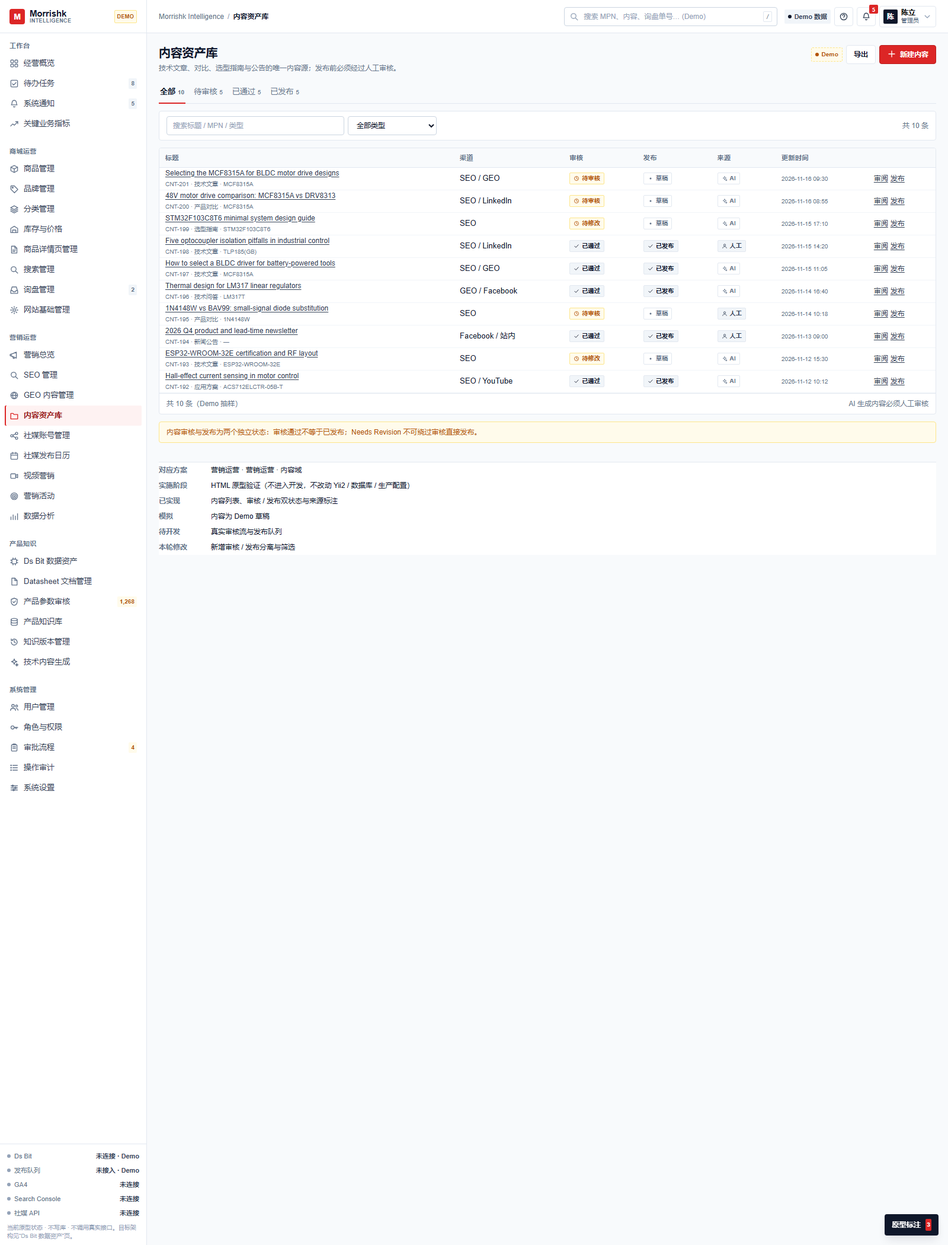
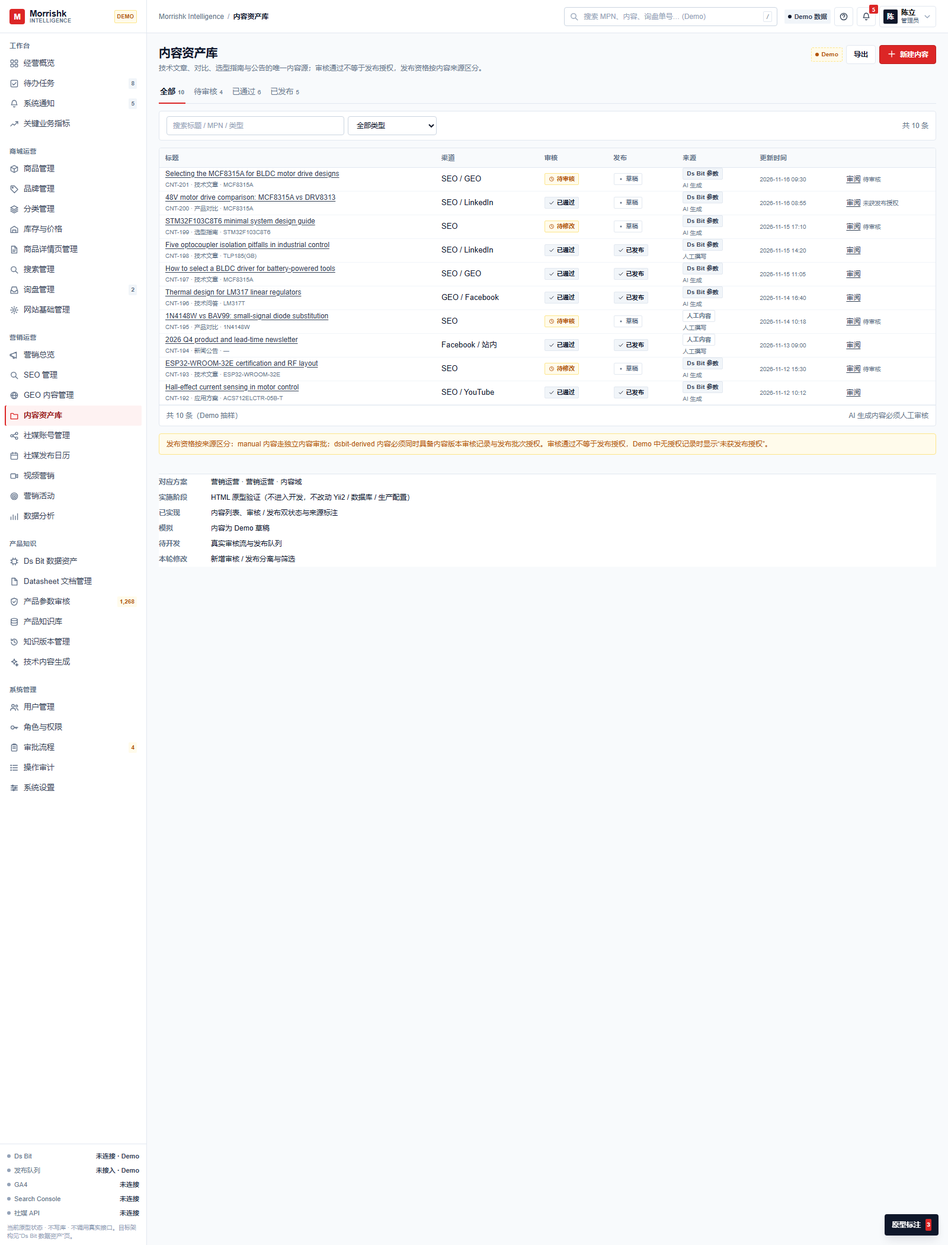
fix(prototype): 明确内容资产库发布授权边界
- 内容增加 manual / dsbit 来源与发布授权记录
- dsbit 内容需内容版本审核记录 + 发布批次授权才可发布，否则显示未获发布授权
- 人工内容走独立审批并记录审批号，不套用商品详情三层闸门
- 内容抽屉展示发布资格与依据，列表按资格显示发布入口
- 重拍 07 截图并新增 27 发布拦截截图

diff --git a/07_prototypes/admin/assets/admin.js b/07_prototypes/admin/assets/admin.js
@@ -308,30 +308,61 @@
     });
   }
 
+  function contentRelease(c) {
+    var rel = c.release || null;
+    if (c.origin === 'manual') {
+      var manualOk = !!rel && rel.mode === 'manual';
+      return {
+        ok: manualOk,
+        qual: manualOk ? '人工内容独立审批通过' : '未到发布环节',
+        basis: manualOk
+          ? '人工撰写内容不引用 Ds Bit 参数，走独立内容审批：' + rel.ref + '（' + rel.batch + '）'
+          : '人工撰写内容需先通过独立内容审核；不套用商品详情三层闸门。'
+      };
+    }
+    var dsbitOk = !!rel && rel.mode === 'dsbit';
+    return {
+      ok: dsbitOk,
+      qual: dsbitOk ? '已获发布授权 · 批次 ' + rel.batch : '未获发布授权',
+      basis: dsbitOk
+        ? '内容版本 ' + rel.version + ' 已通过内容审核，发布批次 ' + rel.batch + '（' + rel.ref + '）；授权仅限该批次。'
+        : '内容引用 Ds Bit 参数，必须有内容版本审核记录与发布批次授权；Demo 中无授权记录，因此不能发布。'
+    };
+  }
+
   function contentDrawer(id) {
     var c = find(STATE.contents, 'id', id);
     if (!c) return;
+    var rel = contentRelease(c);
     var body = UI.kv([
       { k: '内容 ID', v: esc(c.id), mono: true },
       { k: '类型', v: esc(c.type) },
       { k: '关联商品', v: esc(c.mpn) },
       { k: '渠道', v: esc(c.channel) },
+      { k: '内容来源', v: c.origin === 'manual' ? 'manual · 人工撰写（独立审批）' : 'dsbit-derived · 引用 Ds Bit 参数' },
       { k: '事实来源', v: esc(c.source) },
       { k: '生成方式', v: c.ai === 'AI Generated' ? 'AI 生成（Demo）' : '人工撰写' },
       { k: '审核状态', v: UI.pill(c.review, { Approved: '已通过', 'Pending Review': '待审核', 'Needs Revision': '待修改' }[c.review] || c.review) },
-      { k: '发布状态', v: UI.pill(c.publish, c.publish === 'Published' ? '已发布' : '草稿') }
+      { k: '发布状态', v: UI.pill(c.publish, c.publish === 'Published' ? '已发布' : '草稿') },
+      { k: '发布资格', v: rel.qual },
+      { k: '发布依据', v: rel.basis }
     ]) +
       '<div class="evidence"><h4>引用边界</h4><blockquote>' + esc(c.source) + '</blockquote>' +
       '<div class="meta-row"><span>仅引用 Ds Bit Verified 参数</span><span>AI 内容必须人工审核</span></div></div>' +
-      '<div class="note' + (c.review === 'Approved' ? '' : ' warn') + '">' +
-      (c.review === 'Approved' ? '已通过审核，可执行发布动作（Demo）。' : '未通过审核，发布按钮不可用；请先审核通过。') + '</div>';
+      '<div class="note' + (c.review === 'Approved' && rel.ok ? '' : ' warn') + '">' +
+      (c.review !== 'Approved'
+        ? '未通过审核，发布按钮不可用；请先审核通过。'
+        : (rel.ok ? '审核与发布资格均满足，可执行发布动作（Demo）。' : '审核已通过，但' + (c.origin === 'dsbit' ? '缺少发布批次授权' : '缺少独立审批记录') + '，发布不可执行。')) + '</div>';
 
     var foot = '';
     if (c.review !== 'Approved') {
       foot += '<button class="btn btn-secondary" type="button" data-act="content-return" data-id="' + esc(c.id) + '">退回修改</button>' +
-        '<button class="btn btn-primary" type="button" data-act="content-approve" data-id="' + esc(c.id) + '">审核通过</button>';
+        '<button class="btn btn-primary" type="button" data-act="content-approve" data-id="' + esc(c.id) + '">' +
+        (c.origin === 'manual' ? '人工审核通过' : '审核通过') + '</button>';
     } else if (c.publish !== 'Published') {
-      foot += '<button class="btn btn-primary" type="button" data-act="content-publish" data-id="' + esc(c.id) + '">发布</button>';
+      foot += rel.ok
+        ? '<button class="btn btn-primary" type="button" data-act="content-publish" data-id="' + esc(c.id) + '">发布</button>'
+        : '<button class="btn btn-secondary" type="button" disabled aria-disabled="true">未获发布授权</button>';
     }
     UI.openDrawer({
       kicker: '内容资产 · Demo', title: c.title, sub: esc(c.id + ' · ' + c.mpn), body: body, foot: drawerFoot(foot)
@@ -1142,7 +1173,7 @@
       var id = 'CNT-' + (202 + STATE.contents.length);
       STATE.contents.unshift({
         id: id, title: p.mpn + ' 关键参数与选型边界（GEO 草稿）', type: '应用方案', mpn: mpn,
-        source: 'Ds Bit 已审核参数', ai: 'AI Generated', review: 'Pending Review', publish: 'Draft',
+        origin: 'dsbit', source: 'Ds Bit 已审核参数', ai: 'AI Generated', review: 'Pending Review', publish: 'Draft', release: null,
         updated: nowStr(), channel: 'SEO / GEO'
       });
       UI.closeAll(); rerender();
@@ -1156,8 +1187,8 @@
       if (!title) { UI.toast('请填写标题', 'err'); return; }
       var id = 'CNT-' + (202 + STATE.contents.length);
       STATE.contents.unshift({
-        id: id, title: title, type: val('ncType'), mpn: val('ncMpn'), source: '人工撰写',
-        ai: 'Human', review: 'Pending Review', publish: 'Draft', updated: nowStr(), channel: val('ncChannel')
+        id: id, title: title, type: val('ncType'), mpn: val('ncMpn'), origin: 'manual', source: '人工撰写',
+        ai: 'Human', review: 'Pending Review', publish: 'Draft', release: null, updated: nowStr(), channel: val('ncChannel')
       });
       UI.closeModal(); rerender();
       UI.toast('已创建内容草稿 ' + id + '（待审核）', 'warn');
@@ -1166,8 +1197,14 @@
       var c = find(STATE.contents, 'id', el.getAttribute('data-id'));
       c.review = 'Approved';
       audit('审核内容', c.id + ' / ' + c.title, 'Approved');
-      UI.closeAll(); rerender();
-      UI.toast('内容已通过审核（Demo），可执行发布');
+      if (c.origin === 'manual') {
+        c.release = { mode: 'manual', ref: 'MA-' + c.id, batch: '人工内容审批', version: 'v1' };
+        UI.closeAll(); rerender();
+        UI.toast('人工内容审核通过（独立审批）：' + c.release.ref + '，可发布');
+      } else {
+        UI.closeAll(); rerender();
+        UI.toast('内容审核通过（Demo）：未获发布批次授权时仍不可发布', 'warn');
+      }
     },
     'content-return': function (el) {
       var c = find(STATE.contents, 'id', el.getAttribute('data-id'));
@@ -1180,6 +1217,13 @@
       var c = find(STATE.contents, 'id', el.getAttribute('data-id'));
       if (!c) return;
       if (c.review !== 'Approved') { UI.toast('未通过审核，不能发布', 'err'); return; }
+      var rel = contentRelease(c);
+      if (!rel.ok) {
+        UI.toast(c.origin === 'dsbit'
+          ? '该内容引用 Ds Bit 参数，未获发布批次授权，不能发布'
+          : '人工内容缺少独立审批记录，不能发布', 'err');
+        return;
+      }
       c.publish = 'Published';
       c.updated = nowStr();
       audit('发布内容', c.id + ' / ' + c.title, 'Success');

diff --git a/07_prototypes/admin/assets/data.js b/07_prototypes/admin/assets/data.js
@@ -172,17 +172,18 @@
 
 
   /* ------------------------------------------------------------------ 内容 */
+  /* origin: manual = 人工内容独立审批；dsbit = 引用 Ds Bit 参数，必须有内容版本审核记录 + 发布批次授权（release）才能发布 */
   D.contents = [
-    { id: 'CNT-201', title: 'Selecting the MCF8315A for BLDC motor drive designs', type: '技术文章', mpn: 'MCF8315A', source: 'Ds Bit 已审核参数', ai: 'AI Generated', review: 'Pending Review', publish: 'Draft', updated: '2026-11-16 09:30', channel: 'SEO / GEO' },
-    { id: 'CNT-200', title: '48V motor drive comparison: MCF8315A vs DRV8313', type: '产品对比', mpn: 'MCF8315A', source: 'Ds Bit 已审核参数', ai: 'AI Generated', review: 'Pending Review', publish: 'Draft', updated: '2026-11-16 08:55', channel: 'SEO / LinkedIn' },
-    { id: 'CNT-199', title: 'STM32F103C8T6 minimal system design guide', type: '选型指南', mpn: 'STM32F103C8T6', source: 'Ds Bit 参数（含待审核）', ai: 'AI Generated', review: 'Needs Revision', publish: 'Draft', updated: '2026-11-15 17:10', channel: 'SEO' },
-    { id: 'CNT-198', title: 'Five optocoupler isolation pitfalls in industrial control', type: '技术文章', mpn: 'TLP185(GB)', source: '人工撰写 + Ds Bit 引用', ai: 'Human', review: 'Approved', publish: 'Published', updated: '2026-11-15 14:20', channel: 'SEO / LinkedIn' },
-    { id: 'CNT-197', title: 'How to select a BLDC driver for battery-powered tools', type: '技术文章', mpn: 'MCF8315A', source: 'Ds Bit 已审核参数', ai: 'AI Generated', review: 'Approved', publish: 'Published', updated: '2026-11-15 11:05', channel: 'SEO / GEO' },
-    { id: 'CNT-196', title: 'Thermal design for LM317 linear regulators', type: '技术问答', mpn: 'LM317T', source: 'Ds Bit 已审核参数', ai: 'AI Generated', review: 'Approved', publish: 'Published', updated: '2026-11-14 16:40', channel: 'GEO / Facebook' },
-    { id: 'CNT-195', title: '1N4148W vs BAV99: small-signal diode substitution', type: '产品对比', mpn: '1N4148W', source: 'Ds Bit 已审核参数', ai: 'Human', review: 'Pending Review', publish: 'Draft', updated: '2026-11-14 10:18', channel: 'SEO' },
-    { id: 'CNT-194', title: '2026 Q4 product and lead-time newsletter', type: '新闻公告', mpn: '—', source: '人工撰写', ai: 'Human', review: 'Approved', publish: 'Published', updated: '2026-11-13 09:00', channel: 'Facebook / 站内' },
-    { id: 'CNT-193', title: 'ESP32-WROOM-32E certification and RF layout', type: '技术文章', mpn: 'ESP32-WROOM-32E', source: 'Ds Bit 参数（含待审核）', ai: 'AI Generated', review: 'Needs Revision', publish: 'Draft', updated: '2026-11-12 15:30', channel: 'SEO' },
-    { id: 'CNT-192', title: 'Hall-effect current sensing in motor control', type: '应用方案', mpn: 'ACS712ELCTR-05B-T', source: 'Ds Bit 已审核参数', ai: 'AI Generated', review: 'Approved', publish: 'Published', updated: '2026-11-12 10:12', channel: 'SEO / YouTube' }
+    { id: 'CNT-201', title: 'Selecting the MCF8315A for BLDC motor drive designs', type: '技术文章', mpn: 'MCF8315A', origin: 'dsbit', source: 'Ds Bit 已审核参数', ai: 'AI Generated', review: 'Pending Review', publish: 'Draft', release: null, updated: '2026-11-16 09:30', channel: 'SEO / GEO' },
+    { id: 'CNT-200', title: '48V motor drive comparison: MCF8315A vs DRV8313', type: '产品对比', mpn: 'MCF8315A', origin: 'dsbit', source: 'Ds Bit 已审核参数', ai: 'AI Generated', review: 'Approved', publish: 'Draft', release: null, updated: '2026-11-16 08:55', channel: 'SEO / LinkedIn' },
+    { id: 'CNT-199', title: 'STM32F103C8T6 minimal system design guide', type: '选型指南', mpn: 'STM32F103C8T6', origin: 'dsbit', source: 'Ds Bit 参数（含待审核）', ai: 'AI Generated', review: 'Needs Revision', publish: 'Draft', release: null, updated: '2026-11-15 17:10', channel: 'SEO' },
+    { id: 'CNT-198', title: 'Five optocoupler isolation pitfalls in industrial control', type: '技术文章', mpn: 'TLP185(GB)', origin: 'dsbit', source: '人工撰写 + Ds Bit 引用', ai: 'Human', review: 'Approved', publish: 'Published', release: { mode: 'dsbit', ref: 'RA-20261115-02', batch: 'B-20261115-02', version: 'v1' }, updated: '2026-11-15 14:20', channel: 'SEO / LinkedIn' },
+    { id: 'CNT-197', title: 'How to select a BLDC driver for battery-powered tools', type: '技术文章', mpn: 'MCF8315A', origin: 'dsbit', source: 'Ds Bit 已审核参数', ai: 'AI Generated', review: 'Approved', publish: 'Published', release: { mode: 'dsbit', ref: 'RA-20261115-01', batch: 'B-20261115-01', version: 'v2' }, updated: '2026-11-15 11:05', channel: 'SEO / GEO' },
+    { id: 'CNT-196', title: 'Thermal design for LM317 linear regulators', type: '技术问答', mpn: 'LM317T', origin: 'dsbit', source: 'Ds Bit 已审核参数', ai: 'AI Generated', review: 'Approved', publish: 'Published', release: { mode: 'dsbit', ref: 'RA-20261114-01', batch: 'B-20261114-01', version: 'v1' }, updated: '2026-11-14 16:40', channel: 'GEO / Facebook' },
+    { id: 'CNT-195', title: '1N4148W vs BAV99: small-signal diode substitution', type: '产品对比', mpn: '1N4148W', origin: 'manual', source: '人工撰写', ai: 'Human', review: 'Pending Review', publish: 'Draft', release: null, updated: '2026-11-14 10:18', channel: 'SEO' },
+    { id: 'CNT-194', title: '2026 Q4 product and lead-time newsletter', type: '新闻公告', mpn: '—', origin: 'manual', source: '人工撰写', ai: 'Human', review: 'Approved', publish: 'Published', release: { mode: 'manual', ref: 'MA-20261113-01', batch: '人工内容审批', version: 'v1' }, updated: '2026-11-13 09:00', channel: 'Facebook / 站内' },
+    { id: 'CNT-193', title: 'ESP32-WROOM-32E certification and RF layout', type: '技术文章', mpn: 'ESP32-WROOM-32E', origin: 'dsbit', source: 'Ds Bit 参数（含待审核）', ai: 'AI Generated', review: 'Needs Revision', publish: 'Draft', release: null, updated: '2026-11-12 15:30', channel: 'SEO' },
+    { id: 'CNT-192', title: 'Hall-effect current sensing in motor control', type: '应用方案', mpn: 'ACS712ELCTR-05B-T', origin: 'dsbit', source: 'Ds Bit 已审核参数', ai: 'AI Generated', review: 'Approved', publish: 'Published', release: { mode: 'dsbit', ref: 'RA-20261112-01', batch: 'B-20261112-01', version: 'v1' }, updated: '2026-11-12 10:12', channel: 'SEO / YouTube' }
   ];
 
   /* ------------------------------------------------------------------ 社媒 */

diff --git a/07_prototypes/admin/assets/views-main.js b/07_prototypes/admin/assets/views-main.js
@@ -570,21 +570,35 @@
   V.content = function (S) {
     var tab = S.contentTab || 'all';
     var rows = S.contents.map(function (c) {
+      var rel = c.release || null;
+      var relOk = c.origin === 'manual' ? (!!rel && rel.mode === 'manual') : (!!rel && rel.mode === 'dsbit');
+      var canPublish = c.review === 'Approved' && relOk;
+      var act = '';
+      if (c.publish !== 'Published') {
+        if (canPublish) {
+          act = '<button class="link-btn" type="button" data-act="content-publish" data-id="' + esc(c.id) + '">发布</button>';
+        } else {
+          act = '<span class="cell-sub">' + (c.review !== 'Approved' ? '待审核' : (c.origin === 'dsbit' ? '未获发布授权' : '待独立审批')) + '</span>';
+        }
+      }
       return '<tr data-search="' + esc((c.title + ' ' + c.mpn + ' ' + c.type).toLowerCase()) + '" data-fstatus="' + esc(c.review + ' ' + c.publish + (c.review !== 'Approved' ? ' NotApproved' : '')) + '" data-ftype="' + esc(c.type) + '">' +
         '<td><button class="link-btn" type="button" data-act="content-view" data-id="' + esc(c.id) + '">' + esc(c.title) + '</button>' +
         '<span class="cell-sub">' + esc(c.id) + ' · ' + esc(c.type) + ' · ' + esc(c.mpn) + '</span></td>' +
         '<td>' + esc(c.channel) + '</td><td>' + UI.pill(c.review, { Approved: '已通过', 'Pending Review': '待审核', 'Needs Revision': '待修改' }[c.review] || c.review) + '</td>' +
         '<td>' + UI.pill(c.publish, c.publish === 'Published' ? '已发布' : '草稿') + '</td>' +
-        '<td>' + (c.ai === 'AI Generated' ? '<span class="st st-muted">' + UI.icon('sparkles') + 'AI</span>' : '<span class="st">' + UI.icon('user') + '人工</span>') + '</td>' +
+        '<td>' + (c.origin === 'manual'
+          ? '<span class="st st-muted">人工内容</span>'
+          : '<span class="st">Ds Bit 参数</span>') +
+          '<span class="cell-sub">' + (c.ai === 'AI Generated' ? 'AI 生成' : '人工撰写') + '</span></td>' +
         '<td class="nowrap"><span class="cell-sub">' + esc(c.updated) + '</span></td>' +
         '<td class="actions"><div class="row-actions"><button class="link-btn" type="button" data-act="content-view" data-id="' + esc(c.id) + '">审阅</button>' +
-        '<button class="link-btn" type="button" data-act="content-publish" data-id="' + esc(c.id) + '">发布</button></div></td></tr>';
+        act + '</div></td></tr>';
     }).join('');
 
     var types = ['技术文章', '产品对比', '选型指南', '技术问答', '新闻公告', '应用方案'];
 
     return '<div class="adm-page" data-filter-scope>' +
-      UI.pageHead('内容资产库', '技术文章、对比、选型指南与公告的唯一内容源；发布前必须经过人工审核。',
+      UI.pageHead('内容资产库', '技术文章、对比、选型指南与公告的唯一内容源；审核通过不等于发布授权，发布资格按内容来源区分。',
         UI.demoChip('内容为 Demo 草稿') +
         '<button class="btn btn-secondary btn-sm" type="button" data-act="export-demo" data-name="内容资产">导出</button>' +
         '<button class="btn btn-primary btn-sm" type="button" data-act="content-new"><span data-icon="plus"></span>新建内容</button>') +
@@ -602,7 +616,7 @@
       UI.tbl(['标题', '渠道', '审核', '发布', '来源', '更新时间', ''], rows +
         '<tr data-empty-row hidden><td colspan="7">' + UI.empty() + '</td></tr>', 'responsive', 'data-table="contents"') +
       UI.foot('共 ' + S.contents.length + ' 条（Demo 抽样）', 'AI 生成内容必须人工审核') + '</section>' +
-      '<div class="note warn">内容审核与发布为两个独立状态：审核通过不等于已发布；Needs Revision 不可绕过审核直接发布。</div>' +
+      '<div class="note warn">发布资格按来源区分：manual 内容走独立内容审批；dsbit-derived 内容必须同时具备内容版本审核记录与发布批次授权。审核通过不等于发布授权，Demo 中无授权记录时显示“未获发布授权”。</div>' +
       '</div>';
   };
 })();

diff --git a/07_prototypes/admin/REVIEW-RESPONSE-v2.md b/07_prototypes/admin/REVIEW-RESPONSE-v2.md
@@ -4,7 +4,7 @@
 - 第二轮提交：`045e3d9`
 - 日期：2026-11-16
 - 范围：仅 `07_prototypes/admin/` 内的 HTML / CSS / JS / 原型说明 / 截图，另按自检要求更新 `07_prototypes/SHA256SUMS.txt`。
-- 状态：第二轮 P1/P2 已落实；第三轮针对 P1-3 状态依赖、P1-2 流程图 / Confidence / 哈希标注与报告统计完成收尾，等待针对性复核。
+- 状态：第二轮 P1/P2 已落实；第三轮闸门依赖与 Ds Bit 已复核通过；第四轮仅处理内容资产库的发布权限边界，等待最后一次定向复核。
 - 边界：未创建 React 工程、未实现 API、未接真实服务、未修改生产环境，也不代表后台重构获批。
 
 ---
@@ -16,10 +16,10 @@
 | 文件 | 修改类型 |
 |---|---|
 | `index.html` | 侧栏运行状态、原型状态说明 |
-| `assets/admin.js` | 深链接状态、证据抽屉、询盘 / 视频抽屉、筛选豁免、内容审核动作 |
-| `assets/data.js` | 15 字段参数模型、历史验证快照、适用性、归因分层、SEO 治理、Commands |
+| `assets/admin.js` | 深链接状态、证据抽屉、询盘 / 视频抽屉、筛选豁免、内容审核动作、内容发布资格判断 |
+| `assets/data.js` | 15 字段参数模型、历史验证快照、内容来源 / 发布授权、适用性、归因分层、SEO 治理、Commands |
 | `assets/ui.js` | 证据链渲染器、Confidence、SHA-256 前缀标注、三层闸门提示 |
-| `assets/views-main.js` | 商品详情三层闸门依赖、SEO 技术治理、GEO 效果监测 |
+| `assets/views-main.js` | 商品详情三层闸门依赖、内容发布资格列、SEO 技术治理、GEO 效果监测 |
 | `assets/views-ops.js` | 数据分析 90 天、来源分层、LeadNo 桥接、询盘 / 视频归因 |
 | `assets/views-knowledge.js` | Ds Bit 状态分层、8 阶段流水线、参数模型、证据样例、Commands 独立表 |
 | `assets/views-system.js` | 设置页“当前状态 / 目标接口”分离 |
@@ -29,10 +29,10 @@
 | `prototype-scope.md` | 11 个 Commands 独立清单 |
 | `REVIEW-RESPONSE-v2.md` | 本文件 |
 
-### 1.2 截图（26 张，均在 `07_prototypes/admin/screenshots/`）
+### 1.2 截图（27 张，均在 `07_prototypes/admin/screenshots/`）
 
-- 更新 23 张：`01`–`23`（第二轮）；第三轮再次更新 `03-product-detail.png`、`11-dsbit.png`、`13-param-review.png`。
-- 新增 3 张：`24-seo-governance.png`、`25-analytics-90d.png`、`26-coverage.png`。
+- 更新 23 张：`01`–`23`（第二轮）；第三轮再次更新 `03-product-detail.png`、`11-dsbit.png`、`13-param-review.png`；第四轮更新 `07-content.png`。
+- 新增 4 张：`24-seo-governance.png`、`25-analytics-90d.png`、`26-coverage.png`、`27-content-publish-guard.png`。
 
 ### 1.3 清单文件（1 个，自检要求）
 
@@ -93,6 +93,27 @@
 - `assets/ui.js:314`：参数证据哈希标签改为“文档 SHA-256 前缀（20 hex，Demo）”。
 - `assets/admin.js:425`：文档抽屉同步为“SHA-256 前缀（20 hex，Demo）”。
 
+### 2.4 内容资产库发布授权边界（第四轮）
+
+**问题**：内容资产库存在“审核通过即可发布”的独立路径，未区分内容来源，也未校验发布批次授权。
+
+**修正**：
+
+- `assets/data.js:175-187`：内容增加 `origin`（`manual` / `dsbit`）与 `release`（发布授权记录）。`release.mode` 为 `dsbit` 时记录内容版本、批次号与授权号；`manual` 时记录独立审批号。CNT-200 设为“已通过但无发布授权”的样例，用于展示拦截状态。
+- `assets/admin.js:311-355`：新增 `contentRelease(c)` 统一判断发布资格：
+  - `manual`：需独立审批记录，显示“人工内容独立审批通过 / 未到发布环节”。
+  - `dsbit`：需内容版本审核记录 + 发布批次授权，显示“已获发布授权 · 批次 B-…”或“未获发布授权”。
+  - 抽屉新增“内容来源”“发布资格”“发布依据”三行；无授权时发布按钮替换为禁用的“未获发布授权”，并用提示说明缺哪一项。
+- `assets/admin.js:1165-1195`：
+  - `content-approve`：人工内容审核通过时写入独立审批记录 `MA-…`；dsbit 内容只记录内容审核，不生成发布授权，并提示“未获发布批次授权时仍不可发布”。
+  - `content-publish`：审核通过后仍校验 `contentRelease`；dsbit 内容无批次授权、人工内容无独立审批记录时直接拒绝并提示。
+- `assets/admin.js:1143-1147, 1158-1161`：新建 GEO 草稿标记为 `dsbit` 且无授权；新建内容标记为 `manual`。
+- `assets/views-main.js:572-600`：列表“来源”列显示 `Ds Bit 参数` / `人工内容` 与生成方式；发布链接仅在“审核通过 + 具备对应授权”时出现，否则显示“未获发布授权”“待独立审批”或“待审核”。
+- `assets/views-main.js:586-605`：页头与底部说明改为按来源区分发布资格，明确审核通过不等于发布授权。
+- `screenshots/07-content.png` 重拍；新增 `screenshots/27-content-publish-guard.png` 展示 CNT-200 的“未获发布授权”抽屉。
+
+**边界说明**：`release` 为 Demo 记录，仅用于演示授权规则，不代表真实审批数据；正式系统必须读取不可变的审核与发布记录，不能由当前状态反推授权。
+
 ---
 
 ## 3. 第二轮 P1 逐项（保留记录）
@@ -151,6 +172,8 @@
 
 第三轮收尾（`045e3d9` 之后）修改 8 个文本文件（含本回应）、重拍 3 张截图、更新 1 次清单；未新增文件。
 
+第四轮（`1305b4f` 之后）仅处理内容发布权限边界：修改 4 个文本文件（`data.js`、`admin.js`、`views-main.js`、本回应）、重拍 `07-content.png`、新增 `27-content-publish-guard.png`、更新 1 次清单；未改动其他文件。
+
 ---
 
 ## 6. 自检结果
@@ -177,15 +200,17 @@
 | 参数证据抽屉 | Confidence（补充）与“SHA-256 前缀（20 hex，Demo）”存在 |
 | 覆盖矩阵 | 计数 43；筛选“部分覆盖”显示 18；Commands 11 行保持可见 |
 | SEO 技术治理 / 分析 90 天 / 询盘 / 视频 / GEO | 与第二轮一致，均可切换与打开 |
+| 定向测试 1：dsbit 内容无发布授权 | CNT-200（已通过、无授权）抽屉显示“未获发布授权”；强制触发发布被拒绝，提示“未获发布批次授权，不能发布”；状态保持草稿 |
+| 定向测试 2：人工内容独立审批 | CNT-195 点击“人工审核通过”生成 `MA-CNT-195`；再次打开显示“人工内容独立审批通过”，随后发布成功 |
 
 ### 6.4 SHA256 清单
 
-- `07_prototypes/SHA256SUMS.txt`：76 条（不含清单自身）。
-- `cd 07_prototypes && sha256sum -c SHA256SUMS.txt`：76/76 `OK`，0 `FAILED`。
+- `07_prototypes/SHA256SUMS.txt`：77 条（不含清单自身）。
+- `cd 07_prototypes && sha256sum -c SHA256SUMS.txt`：77/77 `OK`，0 `FAILED`。
 
 ### 6.5 截图
 
-`03-product-detail.png`、`11-dsbit.png`、`13-param-review.png` 已按本轮修改重拍；`24`、`25`、`26` 保持第二轮内容。
+`07-content.png` 已按第四轮修改重拍；新增 `27-content-publish-guard.png`（CNT-200 抽屉）。`03`、`11`、`13` 为第三轮重拍结果，`24`、`25`、`26` 保持第二轮内容。
 
 ### 6.6 并发修改
 

diff --git a/07_prototypes/admin/prototype-readme.md b/07_prototypes/admin/prototype-readme.md
@@ -63,7 +63,7 @@ file:///<repo>/07_prototypes/admin/index.html
 | 营销 | `#/marketing` | 营销总览 | 内容与渠道 KPI、流量趋势、内容流水、活动、未来排期 |
 | 营销 | `#/seo` | SEO 管理 | 关键词、零结果词、同义词、页面优化建议；技术治理含 URL/Canonical、hreflang、Index、sitemap 分片、重复内容、结构化数据、404/重定向与灰度回滚 |
 | 营销 | `#/geo` | GEO 内容管理 | 问答式内容草稿、证据引用状态；AI Referral / 内容覆盖 / 引用抽样三项分开 |
-| 营销 | `#/content` | 内容资产库 | 审核 / 发布双状态、AI/人工来源、新建与审阅抽屉 |
+| 营销 | `#/content` | 内容资产库 | 审核 / 发布双状态、manual / dsbit 来源与发布资格、新建与审阅抽屉 |
 | 营销 | `#/social` | 社媒账号管理 | 平台卡、未连接（Demo 状态）、发布测试、发布规则 |
 | 营销 | `#/calendar` | 社媒发布日历 | 月/周视图、平台筛选、排期抽屉、审核/排期/发布/重试 |
 | 营销 | `#/video` | 视频营销 | 五阶段看板、推进、关联商品 / 落地页 / UTM / 询盘转化链路 |
@@ -130,6 +130,7 @@ file:///<repo>/07_prototypes/admin/index.html
 7. **权限隔离显式化**：四个角色 × 九个业务域的矩阵，切换只改当前前端状态，真实 RBAC 待后端落地。
 8. **系统边界可见**：Ds Bit 独立引擎、只读接入；GA4 / Search Console / 社媒未连接；任务队列仅展示状态。
 9. **可复核性**：每页保留状态表与标注层，Reviewer 可区分「已实现交互」与「模拟数据/待开发」。
+10. **内容发布资格按来源区分**：`manual` 内容走独立内容审批；`dsbit-derived` 内容需内容版本审核记录 + 发布批次授权。审核通过不等于发布授权，抽屉展示资格与依据，无授权时发布按钮禁用。
 
 ---
 
